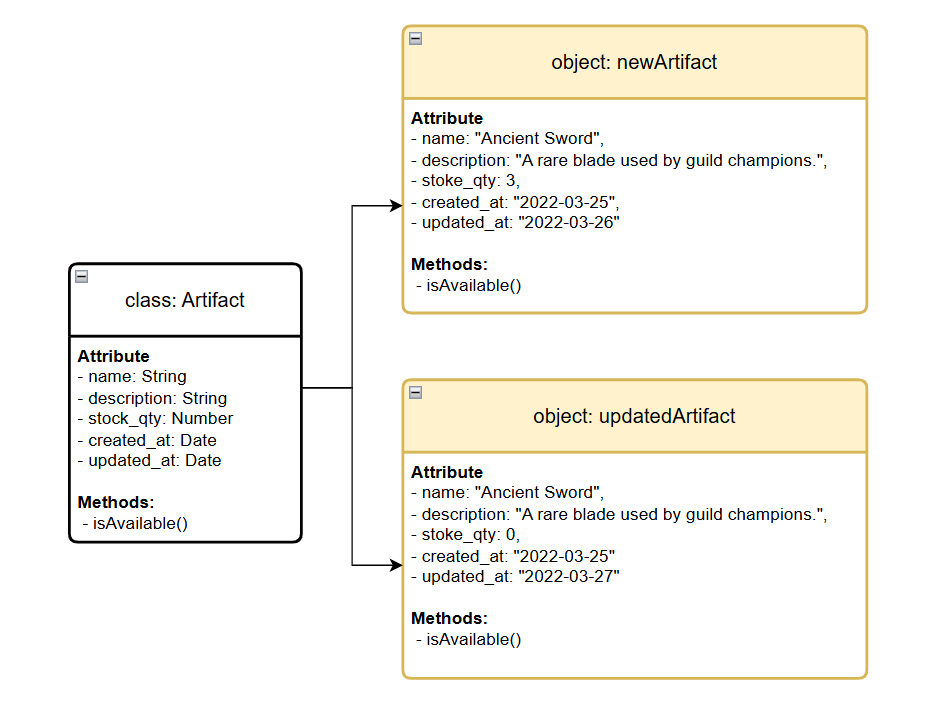
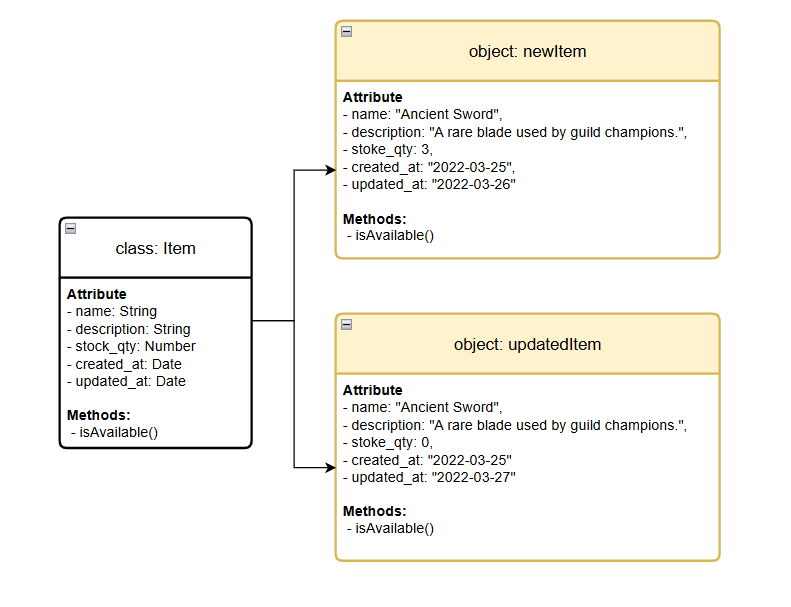
doc: Replace images with new entities and attributes

diff --git a/Plan_Design_Documentation.md b/Plan_Design_Documentation.md
@@ -86,7 +86,7 @@ The **Model** layer (Mongoose schemas and domain logic) represents entities such
 _Fig 3. High Level Structure Model–View–Controller Diagram, Image created by the team using draw.io._
 
 - **View (React Frontend)**: Displays data to the user and sends requests to the backend. Example: Item list page, Contract details page.
-- **Controller (Express.js)**: Receives HTTP requests, calls the appropriate model methods, and returns responses. Example: `itemController.js`, `questController.js`.
+- **Controller (Express.js)**: Receives HTTP requests, calls the appropriate model methods, and returns responses. Example: `itemController.js`, `contractController.js`.
 - **Model (MongoDB + Mongoose)**: Defines the structure of data and encapsulates business logic. Example: `Item`, `User`, `Contract` models.
 
 #### 3.2.2 Example of How MVC Will Be Applied in This Project
@@ -108,13 +108,13 @@ _Fig 3. MVC Applied in GAMS project Diagram, Image created by the team using dra
 
 ## 6. ERD explanation
 
-The Entity Relationship Diagram (ERD) models the core data structures and interactions within the Guild Contract & Item Watch System, capturing how users engage with items, quests, reservations, and notifications. It separates the two availability, behaviours—inventory‑based items and time‑window‑based quests—into distinct entities, each with their own attributes and relational rules. Supporting entities such as Reservation, ContractAcceptance, Watchlist, and Notification represent user actions and system‑generated events, ensuring that every interaction is stored in a structured and traceable way.
+The Entity Relationship Diagram (ERD) models the core data structures and interactions within the Guild Contract & Item Watch System, capturing how users engage with items, contracts, reservations, and notifications. It separates the two availability, behaviours—inventory‑based items and time‑window‑based contracts—into distinct entities, each with their own attributes and relational rules. Supporting entities such as Reservation, ContractAcceptance, Watchlist, and Notification represent user actions and system‑generated events, ensuring that every interaction is stored in a structured and traceable way.
 
 <center><img src=".\ERD\guild-erd.png" alt="ERD Guild Contract & Artifact Watch System - Planing and Design Version">  </center>
 
 _Fig 3. Entity Relationship Diagram (ERD) for the Guild Contract & Artifact Watch System, created by the student team using draw.io._
 
- The ERD follows a fully normalised design, reducing redundancy and  clarifying the relationships between users, items, and quests, while also supporting polymorphic associations for watch and notification functionality. This schema provides a stable foundation for the application’s API, business logic, and future scalability.
+ The ERD follows a fully normalised design, reducing redundancy and  clarifying the relationships between users, items, and contracts, while also supporting polymorphic associations for watch and notification functionality. This schema provides a stable foundation for the application’s API, business logic, and future scalability.
 
 ## 7. User stories
 
